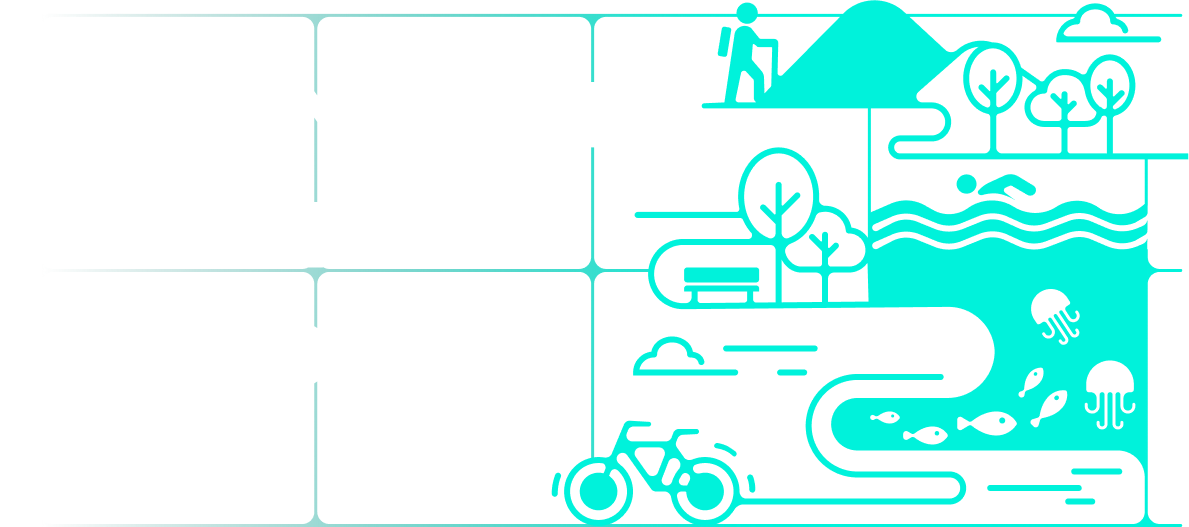
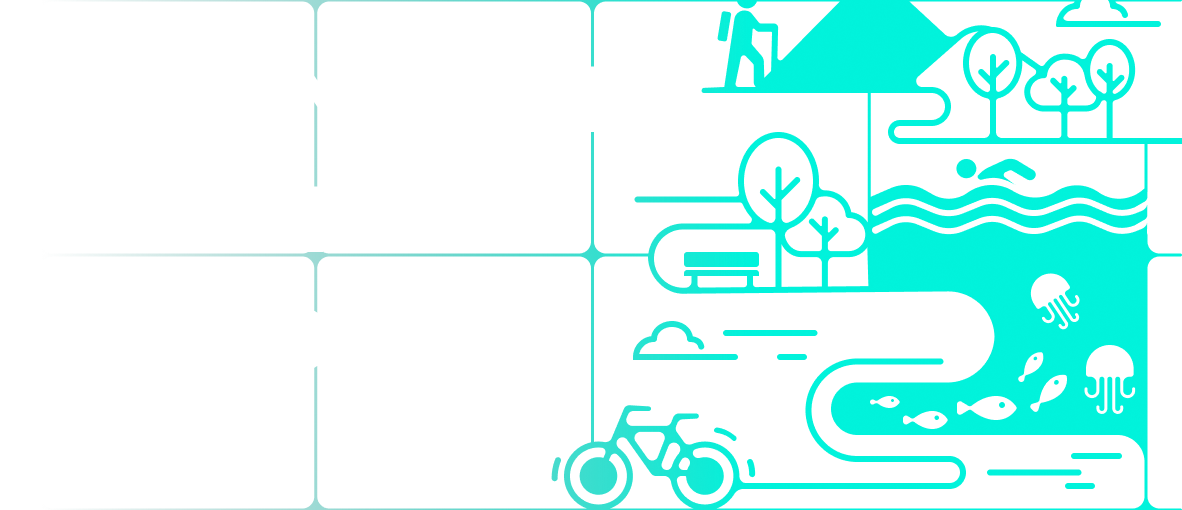
Fix the 21/10 client feedback and refresh heroes, welcome and audio assets
- Category heroes: the 8 refined illustrations (headline baked in) span
  the full width at 394:170; Giải trí no longer lifted
- Headers start 8px higher, bottom bar sits 8px lower, +8px between the
  search bar and the filter row
- Hỗ trợ tabs 116x68 level with the Cẩm nang tab icons
- Hoàng Thành Thăng Long leads the Di tích list
- Directions icon 24px (8px padding); new drag 360 icon; audio skip
  icons from Figma; animated waveform from the client's PNG sequence
- Welcome: slides cropped to the Figma framing, button stays #AA6E00,
  last slide says "Bắt đầu"

Changed region(s): [[0.0914, 0.0, 1.0, 1.0], [0.2437, 0.2059, 0.2741, 0.3824]]

diff --git a/components/onboarding/onboarding-screen.tsx b/components/onboarding/onboarding-screen.tsx
@@ -7,9 +7,8 @@ import { CheckIcon } from "./icons";
 import { LogoAnimation } from "./logo-animation";
 
 type Slide = {
+  /** Pre-cropped to the Figma welcome frame (393x736, exported @3x) so the framing matches the design. */
   image: string;
-  /** object-position matching the crop in the Figma welcome frames. */
-  position: string;
   alt: string;
   heading: [string, string];
   subheading: string;
@@ -18,28 +17,24 @@ type Slide = {
 const SLIDES: Slide[] = [
   {
     image: "/onboarding/slide-1.webp",
-    position: "55% 58%",
     alt: "Hoàng hôn trên Hồ Tây với chùa Trấn Quốc",
     heading: ["Chào mừng", "đến với Hà Nội"],
     subheading: "Bắt đầu hành trình của bạn",
   },
   {
     image: "/onboarding/slide-2.webp",
-    position: "64% 50%",
     alt: "Một bát phở bò Hà Nội truyền thống",
     heading: ["Nếm vị", "của Hà Nội"],
     subheading: "Từ gánh phở sớm mai đến ly cà phê phố Cổ",
   },
   {
     image: "/onboarding/slide-3.webp",
-    position: "42% 43%",
     alt: "Khuê Văn Các tại Văn Miếu - Quốc Tử Giám",
     heading: ["Chạm vào", "ngàn năm văn hiến"],
     subheading: "Mỗi địa danh kể một câu chuyện",
   },
   {
     image: "/onboarding/slide-4.webp",
-    position: "66% 50%",
     alt: "Cầu Long Biên với dòng người qua lại",
     heading: ["Hoà vào", "nhịp sống phố thị"],
     subheading: "Nơi truyền thống và hiện đại cùng hiện diện",
@@ -63,7 +58,7 @@ type RGBA = { r: number; g: number; b: number; a: number };
 const DOT_INACTIVE: RGBA = { r: 150, g: 152, b: 171, a: 1 };
 const DOT_ACTIVE: RGBA = { r: 242, g: 215, b: 159, a: 1 };
 const PILL_START: RGBA = { r: 170, g: 110, b: 0, a: 1 };
-const PILL_END: RGBA = { r: 128, g: 83, b: 0, a: 1 };
+const PILL_END: RGBA = PILL_START;
 
 const clamp01 = (t: number) => Math.min(Math.max(t, 0), 1);
 const lerp = (a: number, b: number, t: number) => a + (b - a) * t;
@@ -293,7 +288,6 @@ export function OnboardingScreen() {
                 priority={i === 0}
                 draggable={false}
                 className="object-cover"
-                style={{ objectPosition: slide.position }}
               />
               {/* Figma: gradient from y 415 of 736, transparent to black 90% at 85%. */}
               <div
@@ -374,7 +368,7 @@ export function OnboardingScreen() {
               className="absolute top-1 left-1 flex h-[54px] shrink-0 cursor-grab touch-none items-center justify-center overflow-hidden rounded-[43px] text-sm whitespace-nowrap text-[#f3ebd9] active:cursor-grabbing"
               style={{
                 width: pillWidth,
-                backgroundColor: isConfirmed ? "#805300" : mixRGBA(PILL_START, PILL_END, pillProgress),
+                backgroundColor: isConfirmed ? "#AA6E00" : mixRGBA(PILL_START, PILL_END, pillProgress),
                 transform: `translateX(${pillOffset}px) scale(${isConfirmed ? 1.06 : 1 + pillProgress * 0.04})`,
                 transition: isPillDragging
                   ? "background-color 80ms linear"
@@ -388,7 +382,7 @@ export function OnboardingScreen() {
                   transition: isPillDragging ? "none" : "opacity 200ms",
                 }}
               >
-                Khám phá ngay
+                {isLast ? "Bắt đầu" : "Khám phá ngay"}
               </span>
               <span
                 className="absolute inset-0 flex items-center justify-center text-[#f3ebd9]"

diff --git a/components/shared/hero.tsx b/components/shared/hero.tsx
@@ -6,8 +6,6 @@ export type HeroIllustration = {
   height: number;
   /** The Figma artwork already contains the Headline 1 title, so the text is kept for screen readers only. */
   hasTitle?: boolean;
-  /** Top offset in px (default 56, Figma artwork y). */
-  top?: number;
 };
 
 type HeroProps = {
@@ -19,12 +17,12 @@ type HeroProps = {
   illustration?: HeroIllustration;
 };
 
-// Figma category hero components ("Bảo tàng" 389:29785, ...): 393x258, the artwork sits at y 56,
-// the title uses Headline 1 (Inter Black 30/40, white) on the left.
+// Figma category hero components ("Bảo tàng" 389:29785, ...): the artwork sits under the 48px bar and spans the
+// full width at its own ratio (client 21/10); the title uses Headline 1 (Inter Black 30/40, white) on the left.
 export function Hero({ title, hideTitle, gradientFrom, gradientTo, illustration }: HeroProps) {
   return (
     <div
-      className="relative h-64.5 overflow-hidden rounded-b-[20px]"
+      className="relative overflow-hidden rounded-b-[20px] pt-12 pb-8"
       style={{ background: `linear-gradient(to bottom, ${gradientFrom}, ${gradientTo})` }}
     >
       {illustration && (
@@ -36,14 +34,14 @@ export function Hero({ title, hideTitle, gradientFrom, gradientTo, illustration 
           height={illustration.height}
           unoptimized
           priority
-          className="pointer-events-none absolute -left-px max-w-none select-none"
-          style={{ top: illustration.top ?? 56, width: illustration.width, height: illustration.height }}
+          // Figma exports are 394x170 (headline baked in); the box spans the full width at that ratio.
+          className="pointer-events-none block aspect-[394/170] h-auto w-full object-cover select-none"
         />
       )}
       {illustration?.hasTitle || hideTitle ? (
         <h1 className="sr-only">{title}</h1>
       ) : (
-        <div className="pointer-events-none absolute top-14 bottom-4 left-4 flex items-center">
+        <div className="pointer-events-none absolute top-12 bottom-8 left-4 flex items-center">
           <h1 className="text-[30px] leading-10 font-black whitespace-pre-line text-white uppercase">{title}</h1>
         </div>
       )}

diff --git a/components/ho-tro/ho-tro-screen.tsx b/components/ho-tro/ho-tro-screen.tsx
@@ -31,10 +31,10 @@ export function HoTroScreen() {
       >
         <div className="sticky top-0 z-20 bg-white">
           {/* Figma "Top bar / Lưu" instance in Layout 10_Them: 52px, centered #27314D title. */}
-          <TopBar title="Hỗ trợ" align="center" showBack={false} color="#27314D" height={64} />
+          <TopBar title="Hỗ trợ" align="center" showBack={false} color="#27314D" height={56} />
 
-          {/* Figma Layout 10_Them: 3 x 116px tabs at y 96, 21px side margins, content from y 181. */}
-          <div className="px-[21px] pb-[21px]">
+          {/* Figma "Tap top" (472:67265, 21/10): 3 x 116x68 tabs, icon 24 + 4 + label centred; level with the Cẩm nang tab icons. */}
+          <div className="px-[21px] pt-0.5 pb-[21px]">
             <div className="flex items-center justify-center">
               {TABS.map(({ key, label, Icon }) => {
                 const isActive = tab === key;
@@ -44,9 +44,9 @@ export function HoTroScreen() {
                     key={key}
                     type="button"
                     onClick={() => setTab(key)}
-                    className={`flex flex-1 p-0.5 transition-colors ${isActive ? "bg-[#9B9B9B]" : "bg-transparent"}`}
+                    className={`flex h-[68px] flex-1 p-0.5 transition-colors ${isActive ? "bg-[#9B9B9B]" : "bg-transparent"}`}
                   >
-                    <span className="flex flex-1 flex-col items-center gap-1.5 rounded bg-white px-2 py-3">
+                    <span className="flex flex-1 flex-col items-center justify-center gap-1 rounded bg-white px-2">
                       <span style={{ color }}>
                         <Icon className="h-6 w-6" filled={isActive} />
                       </span>

diff --git a/components/shared/audio-guide.tsx b/components/shared/audio-guide.tsx
@@ -20,13 +20,7 @@ function SkipButton({ direction, onClick }: { direction: "back" | "forward"; onC
       aria-label={direction === "back" ? "Lùi 10 giây" : "Tới 10 giây"}
       className="relative flex size-10 items-center justify-center"
     >
-      <Image src={direction === "back" ? "/figma/audio-back10.svg" : "/figma/audio-fwd10.svg"} alt="" width={19} height={26} />
-      <span
-        className="absolute top-[18px] text-[9px] leading-none font-semibold text-[#646572]"
-        style={direction === "back" ? { left: 14 } : { left: 18 }}
-      >
-        10
-      </span>
+      <Image src={direction === "back" ? "/figma/audio-back10.svg" : "/figma/audio-fwd10.svg"} alt="" width={32} height={32} />
     </button>
   );
 }
@@ -97,7 +91,15 @@ export function AudioGuide({ src }: { src?: string }) {
     <div className="relative h-36 w-full rounded-lg bg-[#E5DBC6]/70 px-7">
       {src && <audio ref={audioRef} src={src} preload="metadata" />}
 
-      <Image src="/figma/audio-wave.svg" alt="" width={63} height={24} className="absolute top-2.5 left-1/2 -translate-x-1/2" />
+      {/* Client's 34-frame "beat" PNG sequence as an animated WebP; the first frame stands still while paused. */}
+      <Image
+        src={playing ? "/figma/audio-wave.webp" : "/figma/audio-wave-still.png"}
+        alt=""
+        width={63}
+        height={24}
+        unoptimized
+        className="absolute top-2.5 left-1/2 -translate-x-1/2"
+      />
 
       <div
         ref={trackRef}

diff --git a/components/lich-su/lich-su-screen.tsx b/components/lich-su/lich-su-screen.tsx
@@ -63,7 +63,7 @@ const ERAS: Era[] = [
   },
 ];
 
-const BAR_HEIGHT = 56;
+const BAR_HEIGHT = 48;
 const HERO_HEIGHT = 392;
 const DETAIL_BAR_GRADIENT =
   "linear-gradient(180deg, rgba(39, 39, 45, 1) 0%, rgba(18, 18, 21, 0.32) 54%, rgba(0, 0, 0, 0) 100%)";
@@ -128,7 +128,7 @@ export function LichSuScreen() {
         title={pastHero ? "Lịch sử Hà Nội" : undefined}
         tone={pastHero ? "dark" : "light"}
         background={pastHero ? "#F3F3F3" : DETAIL_BAR_GRADIENT}
-        height={pastHero ? BAR_HEIGHT : 112}
+        height={pastHero ? BAR_HEIGHT : 104}
         className="pointer-events-none fixed inset-x-0 top-0 z-40"
       />
 
@@ -155,7 +155,7 @@ export function LichSuScreen() {
           </p>
 
           {/* Equal-width era chips (client: "thẻ lọc có width = nhau"); tap scrolls to that era. */}
-          <div className="sticky top-14 z-20 -mx-3 -my-2 bg-[#F3F3F3] px-3 py-2">
+          <div className="sticky top-12 z-20 -mx-3 -my-2 bg-[#F3F3F3] px-3 py-2">
             <div className="flex h-8 gap-1 overflow-x-auto [scrollbar-width:none] [&::-webkit-scrollbar]:hidden">
               {ERAS.map((era) => {
                 const isActive = active === era.key;

diff --git a/components/di-tich/sites.ts b/components/di-tich/sites.ts
@@ -17,6 +17,19 @@ export function getSite(id: number) {
 }
 
 export const SITES: Site[] = [
+  // Client 21/10: Hoàng Thành Thăng Long leads the list.
+  {
+    id: 9,
+    name: "Hoàng Thành Thăng Long",
+    subtitle: "Phường Ba Đình.",
+    distance: "1.1km",
+    photo: "/figma/hoang-thanh-hero.webp",
+    address: "19c Hoàng Diệu, Điện Biên, Ba Đình, Hà Nội",
+    hours: "S: 7h00 - 11h30\nC: 13h00 - 16h30",
+    hoursNote: "Thứ 3, 4, 5, 7, CN",
+    vrTour: "hoang-thanh",
+    hasAudio: true,
+  },
   {
     id: 1,
     name: "Hồ Tây",
@@ -72,18 +85,6 @@ export const SITES: Site[] = [
     subtitle: "Thị xã Sơn Tây",
     distance: "44km",
     photo: "/di-tich-lich-su/lang-co-duong-lam.png",
-  },
-  {
-    id: 9,
-    name: "Hoàng Thành Thăng Long",
-    subtitle: "Phường Ba Đình.",
-    distance: "1.1km",
-    photo: "/figma/hoang-thanh-hero.webp",
-    address: "19c Hoàng Diệu, Điện Biên, Ba Đình, Hà Nội",
-    hours: "S: 7h00 - 11h30\nC: 13h00 - 16h30",
-    hoursNote: "Thứ 3, 4, 5, 7, CN",
-    vrTour: "hoang-thanh",
-    hasAudio: true,
   },
   {
     id: 10,

diff --git a/components/ban-do/ban-do-screen.tsx b/components/ban-do/ban-do-screen.tsx
@@ -68,7 +68,7 @@ export function BanDoScreen() {
       style={{ background: "linear-gradient(180deg, #F3F3F3 0%, #E3E2E0 100%)" }}
     >
       <div className="absolute inset-x-0 top-0 z-30">
-        <TopBar title="Bản đồ" align="center" showBack={false} color="#27314D" height={64} />
+        <TopBar title="Bản đồ" align="center" showBack={false} color="#27314D" height={56} />
         <div className="mx-3 mt-[3px] flex h-10 items-center gap-3 rounded bg-[#E3E2E0] px-2">
           <SearchIcon className="size-5 shrink-0 text-[#19264E]" />
           <span className="truncate text-xs text-[#19264E]/70">Tìm địa điểm, quán ăn, nhà hàng...</span>
@@ -77,7 +77,7 @@ export function BanDoScreen() {
 
       <div
         className="absolute inset-x-0 bottom-0 overflow-hidden"
-        style={{ top: "calc(106px + env(safe-area-inset-top))" }}
+        style={{ top: "calc(98px + env(safe-area-inset-top))" }}
         onClick={() => setMenuOpen(false)}
       >
         <Image src="/ban-do/map.webp" alt="" fill priority className="object-cover" sizes="100vw" />

diff --git a/components/shared/hero-section.tsx b/components/shared/hero-section.tsx
@@ -21,7 +21,7 @@ export function HeroSection({ title, hideTitle, gradientFrom, gradientTo, illust
   useEffect(() => {
     const el = stickyRef.current;
     if (!el) return;
-    const check = () => setStuck(el.getBoundingClientRect().top <= 96);
+    const check = () => setStuck(el.getBoundingClientRect().top <= 88);
     check();
     document.addEventListener("scroll", check, true);
     window.addEventListener("resize", check);
@@ -34,7 +34,7 @@ export function HeroSection({ title, hideTitle, gradientFrom, gradientTo, illust
   return (
     <>
       <Hero title={title} hideTitle={hideTitle} gradientFrom={gradientFrom} gradientTo={gradientTo} illustration={illustration} />
-      <div ref={stickyRef} className={`sticky top-14 z-30 transition-colors duration-200 ${stuck ? "bg-[#F3F3F3]" : ""}`}>
+      <div ref={stickyRef} className={`sticky top-12 z-30 transition-colors duration-200 ${stuck ? "bg-[#F3F3F3]" : ""}`}>
         <SearchBar placeholder={searchPlaceholder} stuck={stuck} />
         {children}
       </div>

diff --git a/components/shared/detail-screen.tsx b/components/shared/detail-screen.tsx
@@ -15,7 +15,7 @@ const CTA_CLASS =
   "flex h-12 w-full items-center justify-center rounded-lg bg-[#AA6E00] text-base font-semibold text-white transition-transform duration-150 select-none active:scale-[0.98]";
 
 const HERO_HEIGHT = 392;
-const BAR_HEIGHT = 56;
+const BAR_HEIGHT = 48;
 // Figma "Top bar / chi tiet" (556:51864) fill, 112px tall over the hero photo.
 const DETAIL_BAR_GRADIENT =
   "linear-gradient(180deg, rgba(39, 39, 45, 1) 0%, rgba(18, 18, 21, 0.32) 54%, rgba(0, 0, 0, 0) 100%)";
@@ -90,7 +90,7 @@ export function DetailScreen({
         title={pastHero ? item.name : undefined}
         tone={pastHero ? "dark" : "light"}
         background={pastHero ? "#F3F3F3" : DETAIL_BAR_GRADIENT}
-        height={pastHero ? BAR_HEIGHT : 112}
+        height={pastHero ? BAR_HEIGHT : 104}
         className="pointer-events-none fixed inset-x-0 top-0 z-40"
       />
 

diff --git a/components/shared/top-bar.tsx b/components/shared/top-bar.tsx
@@ -5,7 +5,8 @@ import { useRouter } from "next/navigation";
 import { canGoBackInApp } from "@/lib/navigation-history";
 import { BackIcon } from "../home/icons";
 
-// Figma "Top bar" (429:38288): a 40px row placed 8px from the top and 12px from the sides.
+// Figma "Top bar" (429:38288): a 40px row 12px from the sides. Client 21/10: the 8px top gap was removed
+// so every screen starts higher in mobile Safari.
 // The back control is a 40px frame holding the 32px ico_back; the title is Title 2 (Inter 600 16/24).
 const TONES = {
   dark: "#19264E",
@@ -41,7 +42,7 @@ export function TopBar({
   const style: CSSProperties = {
     background,
     color,
-    paddingTop: "calc(8px + env(safe-area-inset-top))",
+    paddingTop: "env(safe-area-inset-top)",
     height: height ? `calc(${height}px + env(safe-area-inset-top))` : undefined,
   };
 

diff --git a/components/cam-nang/cam-nang-screen.tsx b/components/cam-nang/cam-nang-screen.tsx
@@ -20,7 +20,7 @@ export function CamNangScreen() {
       >
         <div className="sticky top-0 z-20 bg-white">
           {/* Figma "Top bar / Lưu" in Layout 2_Cẩm nang: 64px, centered #27314D title. */}
-          <TopBar title="Cẩm nang du lịch Hà Nội" align="center" showBack={false} color="#27314D" height={64} />
+          <TopBar title="Cẩm nang du lịch Hà Nội" align="center" showBack={false} color="#27314D" height={56} />
           <CategoryTabs activeCategory={activeCategory} onCategoryChange={setActiveCategory} />
           {/* Part of the sticky header so cards never touch the tabs while scrolling (Figma: list at y 9). */}
           <div className="h-[9px] bg-[#E3E2E0]" />

diff --git a/components/shared/category/category-header.tsx b/components/shared/category/category-header.tsx
@@ -21,13 +21,13 @@ export function CategoryHeader({
   }, [scrollContainerRef]);
 
   // Over the hero the bar is transparent with white content; once scrolled it takes the
-  // Figma category state (#F3F3F3, #19264E). 56px keeps it flush with the sticky search bar (top-14).
+  // Figma category state (#F3F3F3, #19264E). 48px keeps it flush with the sticky search bar (top-12).
   return (
     <TopBar
       title={title}
       tone={scrolled ? "dark" : "light"}
       background={scrolled ? "#F3F3F3" : "transparent"}
-      height={56}
+      height={48}
       className="fixed inset-x-0 top-0 z-40"
     />
   );
